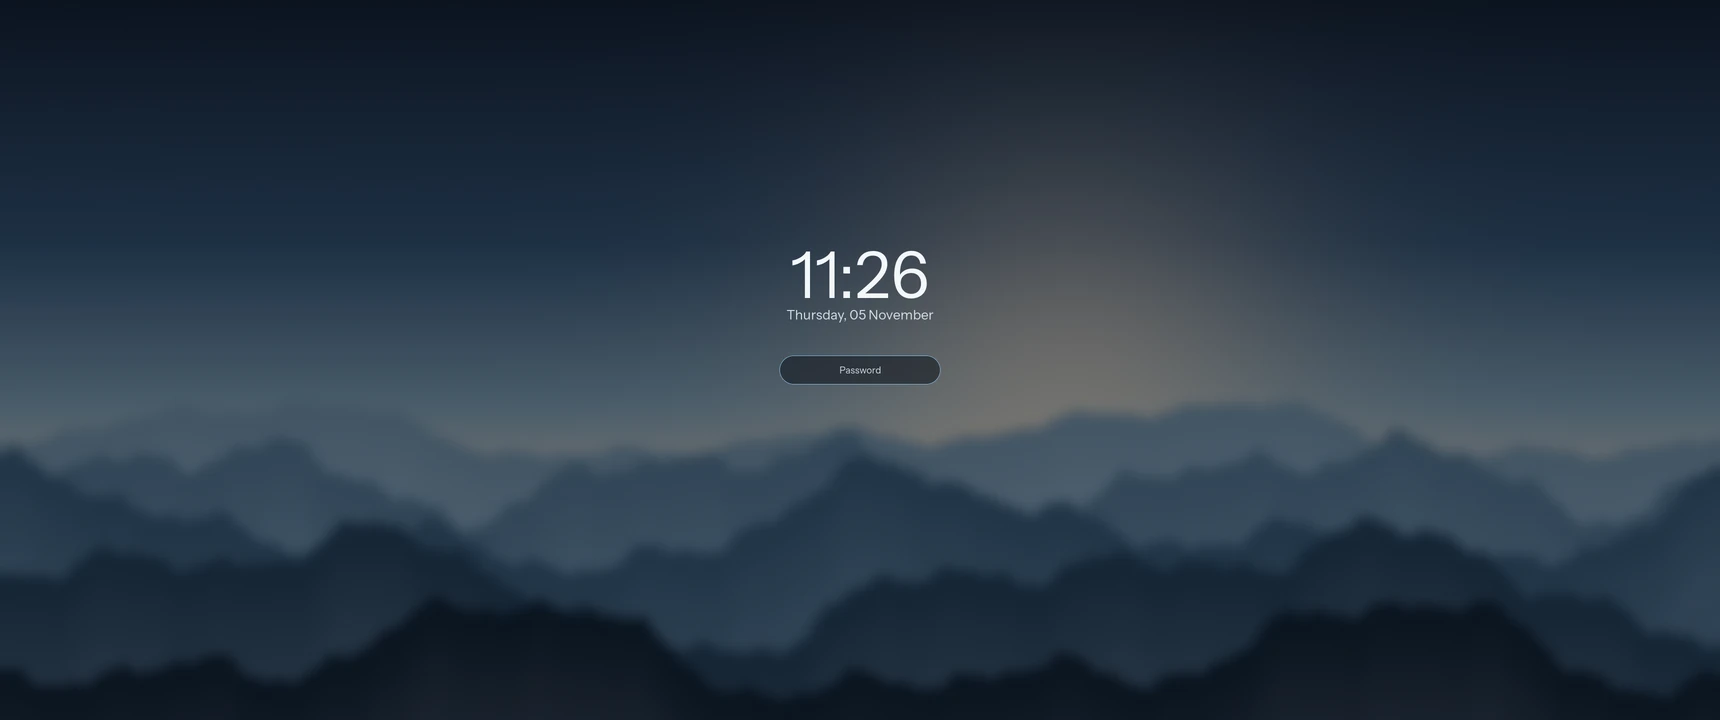
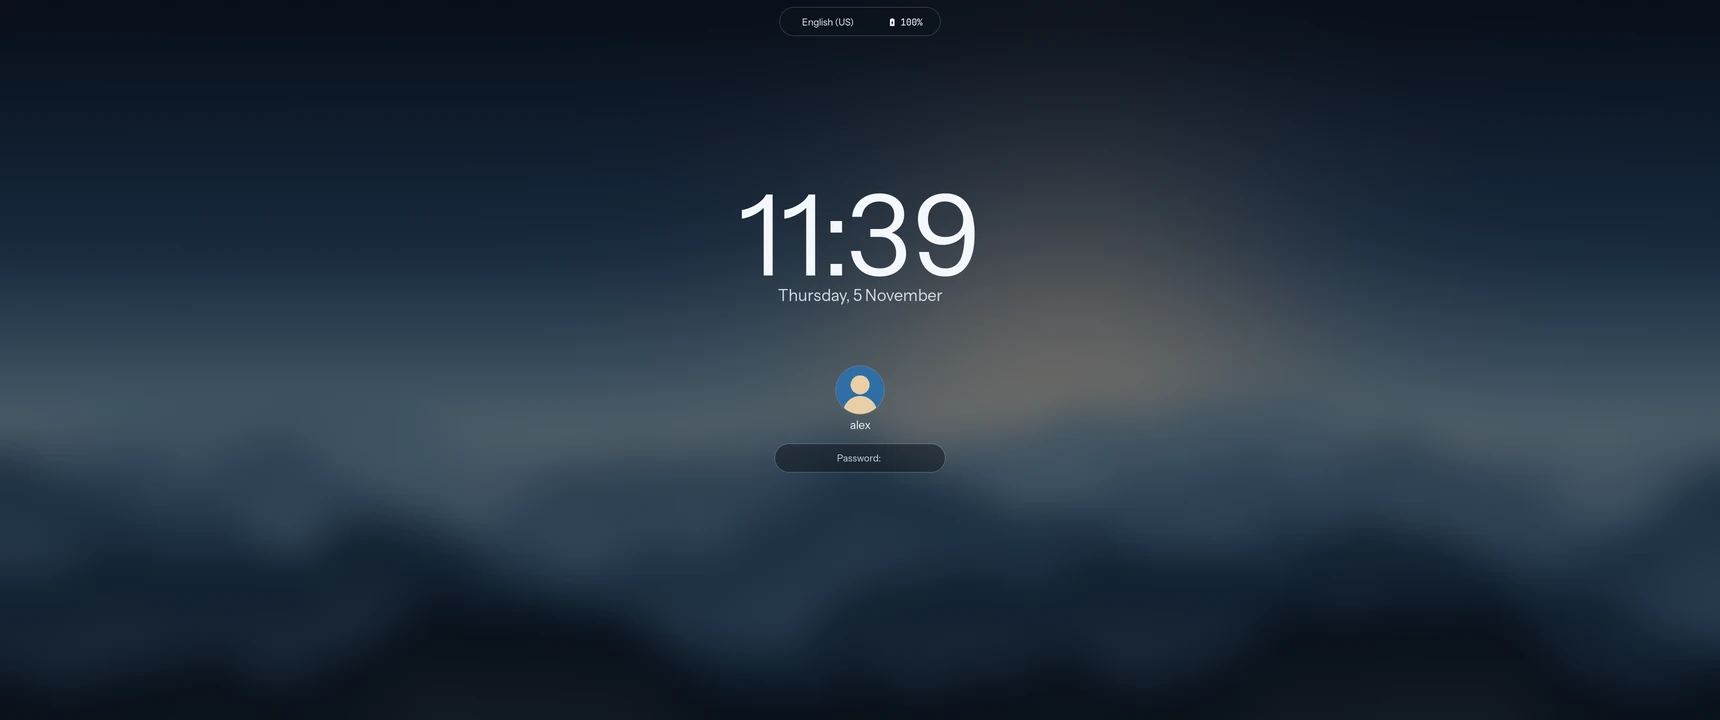
feat: redesign the lock screen
A large clock, the current song, battery, keyboard layout and the user's picture,
following the wallpaper from Settings. Prompts come from the system in its language.

Also removes the GitHub Actions workflows and Dependabot: checks now run locally.

diff --git a/shell/Theme.qml b/shell/Theme.qml
@@ -34,5 +34,11 @@ Singleton {
         Quickshell.execDetached(["hyprctl", "eval", `hl.config({ general = { col = { active_border = "rgb(${accent.toString().slice(1)})", inactive_border = "rgba(ffffff24)" } } })`])
     }
     onAccentChanged: pushBorder()
-    Component.onCompleted: pushBorder()
+    // The lock screen reads the wallpaper through this link, because it runs outside the shell.
+    readonly property string wallpaper: Cfg.v.wallpaper
+    function linkWallpaper() {
+        Quickshell.execDetached(["sh", "-c", 'if [ -n "$1" ]; then ln -sfn "$1" "$2"; else rm -f "$2"; fi', "sh", wallpaper, Quickshell.env("HOME") + "/.local/share/atoll/current-wallpaper"])
+    }
+    onWallpaperChanged: linkWallpaper()
+    Component.onCompleted: { pushBorder(); linkWallpaper() }
 }

diff --git a/README.md b/README.md
@@ -24,16 +24,17 @@ wallpaper, and windows keep the rest of the screen.
 - **Notifications and volume:** glass cards that drop from under the island.
 - **Search:** apps and system screens in one box. Type "wifi" or "volume".
 - **Languages:** English, Português (Brasil), Español, Français, Deutsch, Русский and 简体中文. It follows your system language, or pick one in Settings.
-- **Lock and idle:** lock screen, per-power-source idle timers, night light and monitor brightness.
+- **Lock screen:** large clock, the current song, battery and your picture, over your wallpaper. It also greets you when waking from suspend, with no flash of the desktop.
+- **Idle and display:** idle timers per power source, night light and monitor brightness.
 - **Resilient by design:** if the shell crashes, it restarts by itself. Your windows stay open.
 
 ## Screenshots
 
 Personal data such as network and device names is covered with solid blocks.
 
-| Desktop | Lock screen |
-|---|---|
-| ![Desktop with the dock visible](docs/screenshots/desktop.webp) | ![Lock screen](docs/screenshots/lock.webp) |
+![Lock screen](docs/screenshots/lock.webp)
+
+![Desktop with the dock visible](docs/screenshots/desktop.webp)
 
 | Music | Sound and output | Likes |
 |---|---|---|
@@ -115,7 +116,9 @@ The full list is in [`hypr/binds.lua`](hypr/binds.lua).
 ## Configure
 
 **Most things** are in the Settings screen: language, accent color, wallpaper, brightness, night light and idle timers.
-Your wallpapers go in `~/Pictures/Wallpapers`.
+Your wallpapers go in `~/Pictures/Wallpapers`, and the lock screen follows the one you pick. Your lock screen picture is `~/.face`.
+
+**The lock screen** is `~/.config/atoll/hyprlock.conf`. Updates replace it and save your version as `hyprlock.conf.bak`.
 
 **Hyprland** overrides go in `~/.config/atoll/user.lua`, which updates never touch. For example, a keyboard
 layout, a monitor and another terminal:

diff --git a/README.pt-BR.md b/README.pt-BR.md
@@ -22,7 +22,8 @@ Os prints estão no [README em inglês](README.md#screenshots).
 - **Avisos e volume:** cartões de vidro que descem de baixo da ilha.
 - **Busca:** aplicativos e telas do sistema no mesmo lugar. Digite "wifi" ou "volume".
 - **Idiomas:** English, Português (Brasil), Español, Français, Deutsch, Русский e 简体中文. Segue o idioma do sistema, ou escolha em Ajustes.
-- **Bloqueio e ociosidade:** tela de bloqueio, tempos separados para tomada e bateria, luz noturna e brilho do monitor.
+- **Tela de bloqueio:** relógio grande, música atual, bateria e sua foto, sobre o seu papel de parede. Ela também recebe você ao voltar da suspensão, sem o desktop piscar antes.
+- **Ociosidade e tela:** tempos separados para tomada e bateria, luz noturna e brilho do monitor.
 - **Resistente:** se o shell cair, ele volta sozinho. Suas janelas continuam abertas.
 
 ## Requisitos
@@ -85,7 +86,9 @@ A lista completa está em [`hypr/binds.lua`](hypr/binds.lua).
 ## Configurar
 
 **Quase tudo** está na tela Ajustes: idioma, cor de destaque, papel de parede, brilho, luz noturna e tempos de ociosidade.
-Seus papéis de parede vão em `~/Pictures/Wallpapers`.
+Seus papéis de parede vão em `~/Pictures/Wallpapers`, e a tela de bloqueio segue o que você escolher. Sua foto nela é o arquivo `~/.face`.
+
+**Tela de bloqueio:** é o arquivo `~/.config/atoll/hyprlock.conf`. Atualizações o substituem e guardam sua versão como `hyprlock.conf.bak`.
 
 **Hyprland:** personalizações vão em `~/.config/atoll/user.lua`, que as atualizações nunca alteram. Por exemplo,
 teclado ABNT2, um monitor e outro terminal:

diff --git a/CHANGELOG.md b/CHANGELOG.md
@@ -6,6 +6,23 @@ All notable changes to this project are documented here. The format follows
 
 ## [Unreleased]
 
+## [1.2.0] - 2026-11-05
+
+### Added
+
+- New lock screen with a large clock, the current song, battery, keyboard layout and your `~/.face` picture. It renders on the first frame after waking from suspend.
+- The lock screen follows the wallpaper chosen in Settings.
+
+### Changed
+
+- Password prompt and error messages on the lock screen come from the system, in its language.
+- `install.sh` updates the lock screen and saves a modified one as `hyprlock.conf.bak`.
+- `install.sh --deps` also installs `playerctl`, used to show the current song.
+
+### Removed
+
+- GitHub Actions workflows and Dependabot. Checks run locally, as described in `CONTRIBUTING.md`.
+
 ## [1.1.0] - 2026-11-05
 
 ### Added
@@ -34,6 +51,7 @@ All notable changes to this project are documented here. The format follows
 - Lock screen, idle timers, night light and monitor brightness.
 - Installer, uninstaller, automated tests and an original default wallpaper.
 
-[Unreleased]: https://github.com/brayanspagnol/atoll/compare/v1.1.0...HEAD
+[Unreleased]: https://github.com/brayanspagnol/atoll/compare/v1.2.0...HEAD
+[1.2.0]: https://github.com/brayanspagnol/atoll/compare/v1.1.0...v1.2.0
 [1.1.0]: https://github.com/brayanspagnol/atoll/compare/v1.0.0...v1.1.0
 [1.0.0]: https://github.com/brayanspagnol/atoll/releases/tag/v1.0.0

diff --git a/CONTRIBUTING.md b/CONTRIBUTING.md
@@ -21,7 +21,7 @@ luac -p hypr/*.lua                                    # Lua syntax
 shellcheck -s bash scripts/* install.sh uninstall.sh  # shell scripts
 ```
 
-CI runs these on every pull request. New logic in `cal.js` or `parse.js` should come with a test.
+The project has no hosted CI, so please run them before opening a pull request. New logic in `cal.js` or `parse.js` should come with a test.
 
 ### Try the interface without leaving your session
 
@@ -61,5 +61,5 @@ not reviewed by native speakers, so corrections are very welcome.
 
 ## Releases
 
-Maintainers release by moving `[Unreleased]` to a new version in `CHANGELOG.md`, updating `VERSION`, and pushing a
-`vX.Y.Z` tag. The release workflow checks that the tag matches `VERSION` and publishes the changelog section.
+Maintainers release by moving `[Unreleased]` to a new version in `CHANGELOG.md`, updating `VERSION`, tagging `vX.Y.Z` and
+publishing a GitHub release with that changelog section as its notes.
